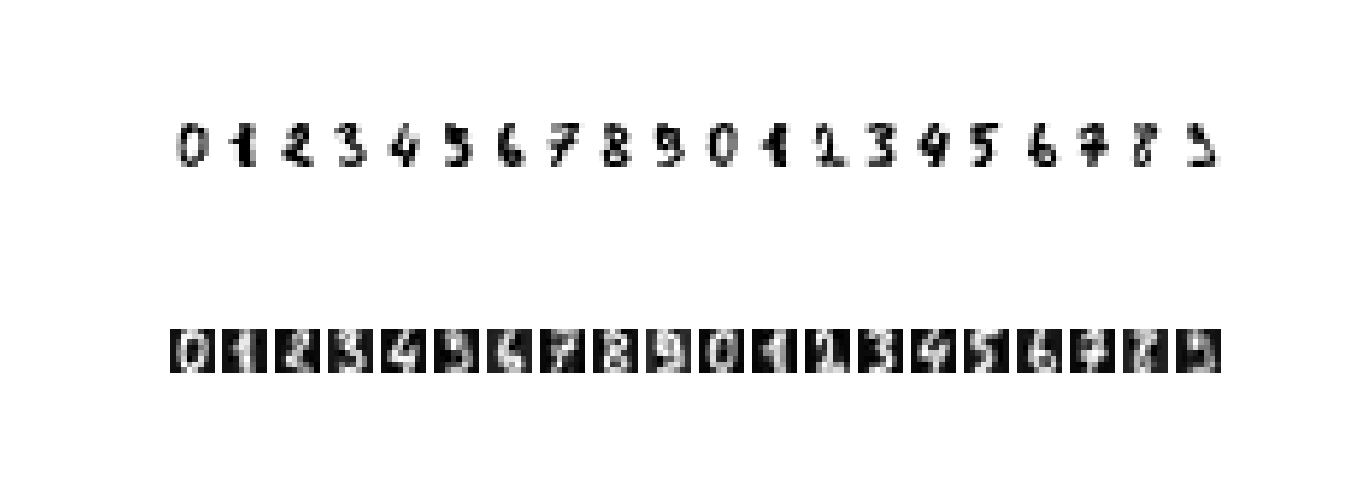
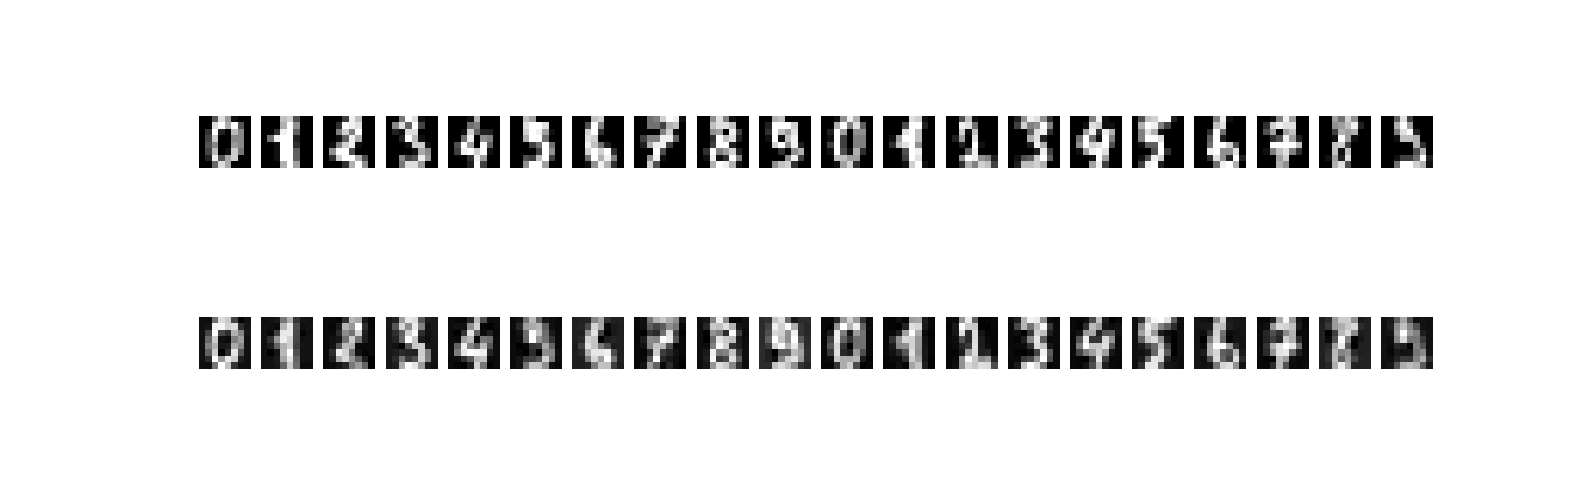
Fix colormap

Changed region(s): [[0.1239, 0.2188, 0.8982, 0.375], [0.1239, 0.6562, 0.8982, 0.7812]]

diff --git a/util.py b/util.py
@@ -31,7 +31,7 @@ def plot_reconstruction(truth, reconstructed, shape, num_shown=10):
     for i, image in enumerate(truth[:num_shown]):
         plt.subplot(2, num_shown, i + 1)
         plt.axis('off')
-        plt.imshow(image.reshape(shape), cmap=plt.cm.gray_r)
+        plt.imshow(image.reshape(shape), cmap=plt.cm.gray)
     for i, image in enumerate(reconstructed[:num_shown]):
         plt.subplot(2, num_shown, i + num_shown + 1)
         plt.axis('off')
